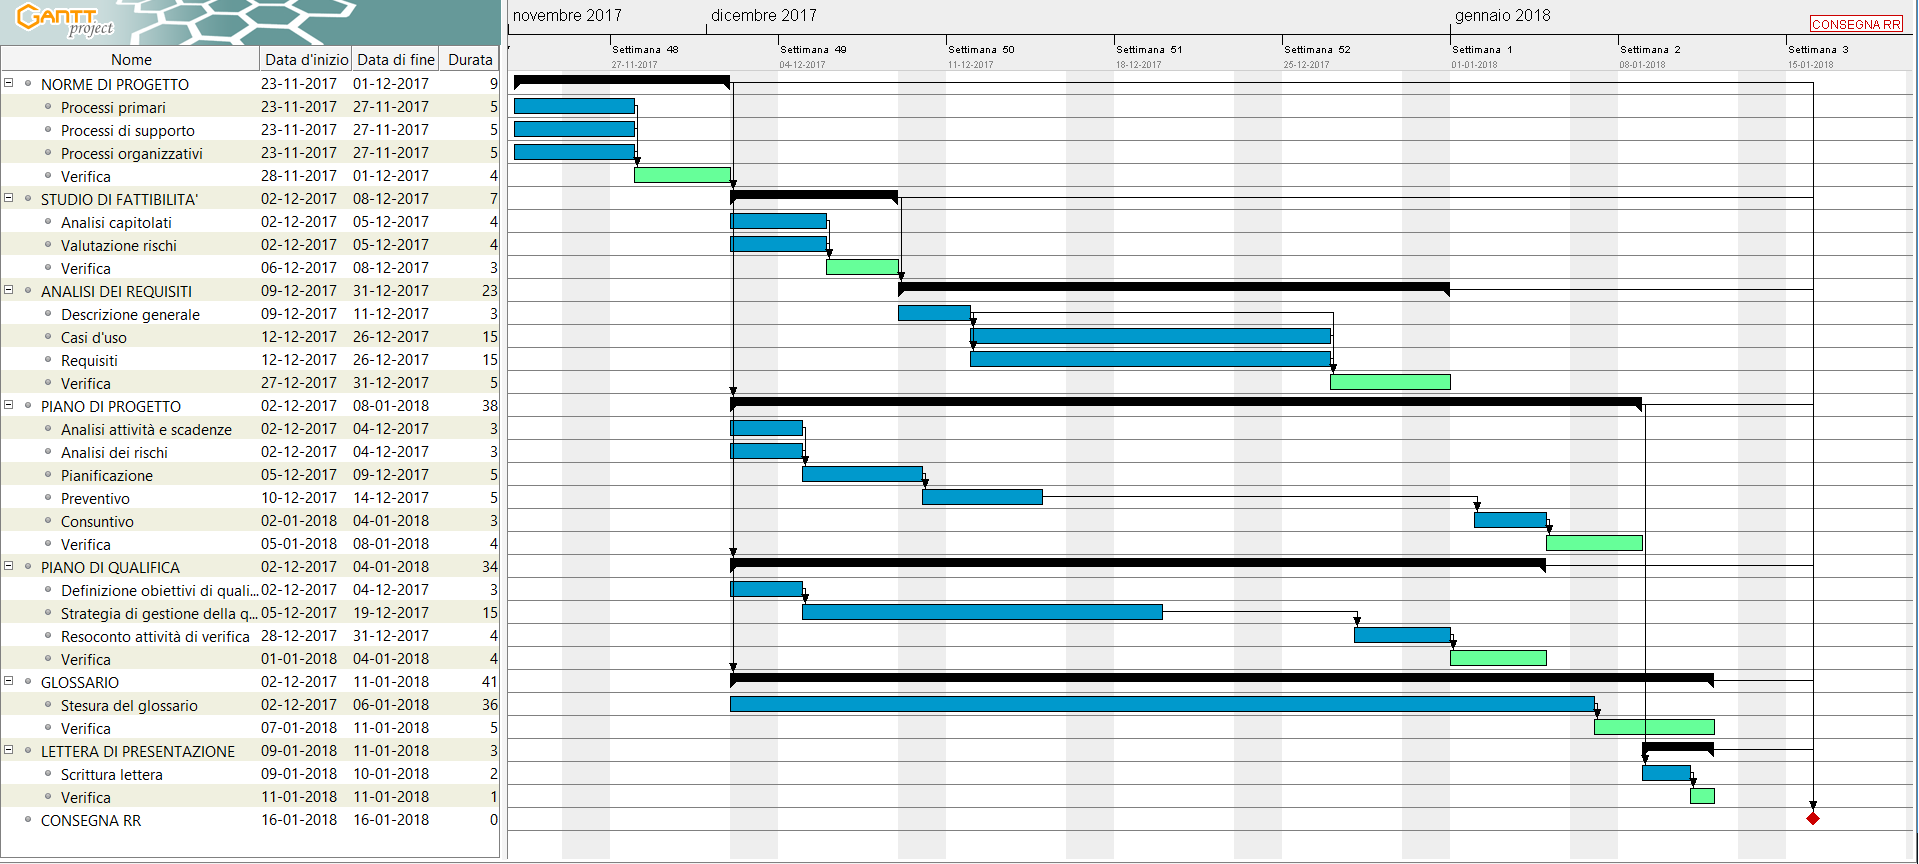
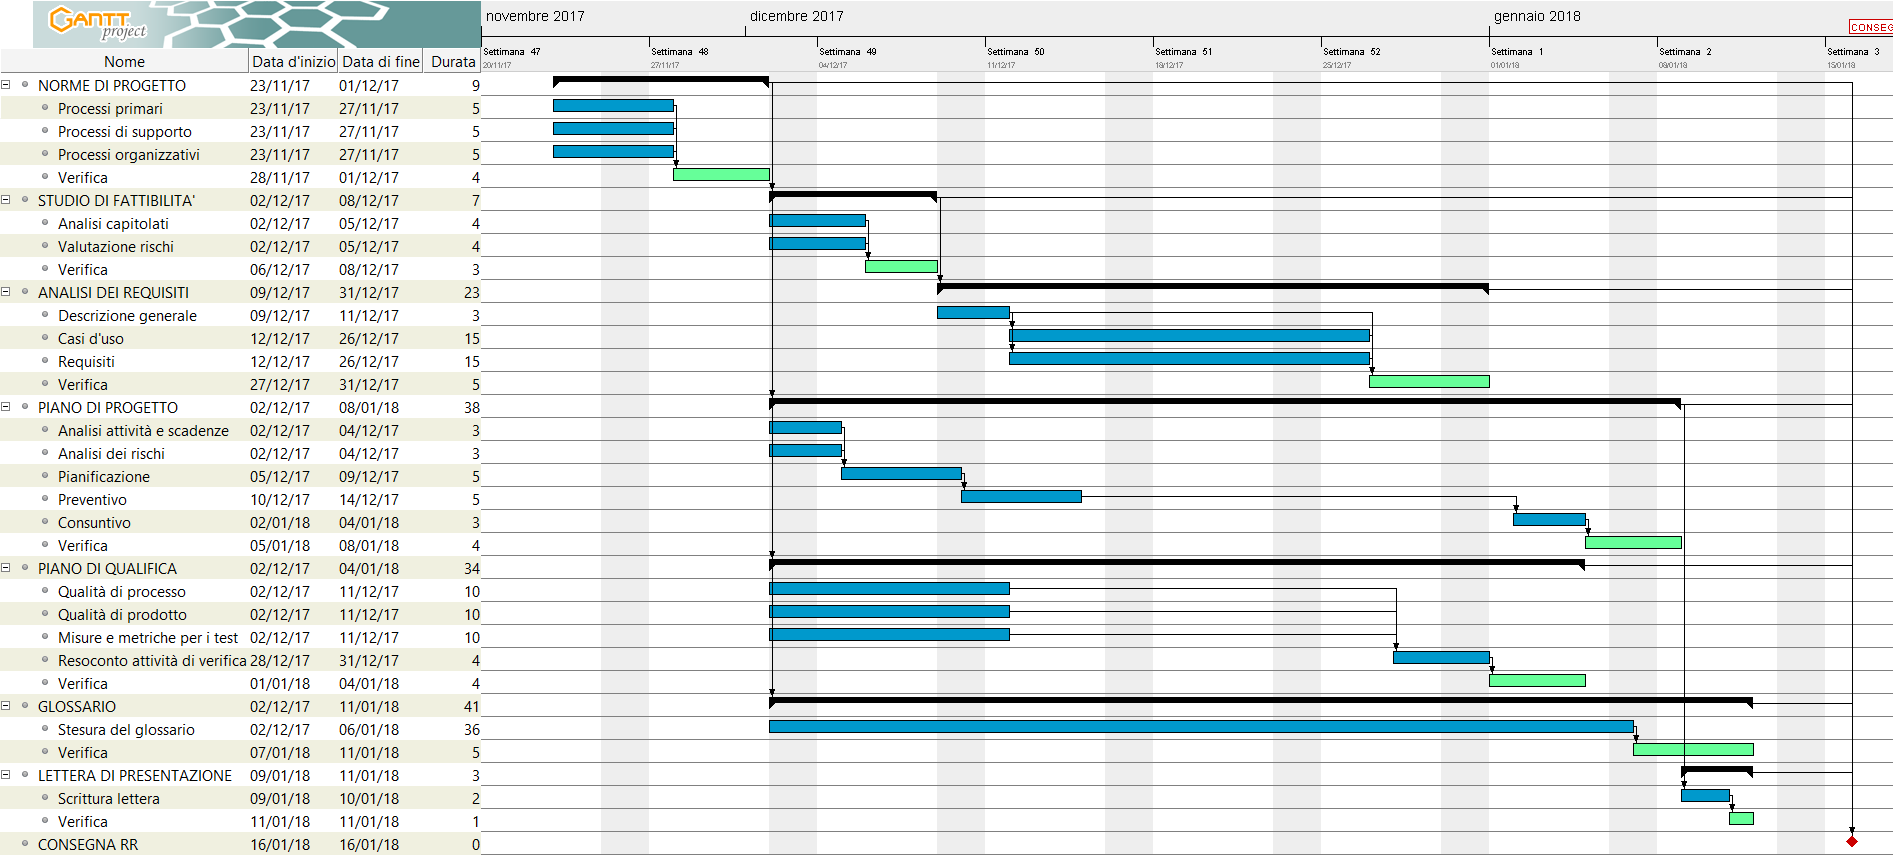
Rimosso documento 12 factor app da pianificazione pdp

Changed region(s): [[0.0, 0.0, 1.0, 1.0]]

diff --git a/Esterni/PianoDiProgetto/Pianificazione.tex b/Esterni/PianoDiProgetto/Pianificazione.tex
@@ -69,7 +69,6 @@ Il periodo di Progettazione di dettaglio e codifica inizia il 19-03-2018 e termi
 	\item \textbf{Product Baseline:} questa attività presenta la baseline architetturale del prodotto tramite i  diagrammi delle classi e di sequenza, mostrandone la coerenza con quanto mostrato durante l'attività di Technology Baseline;
 	\item \textbf{Codifica:} questa attività consiste nella scrittura del codice e nella sua \citGloss{verifica};
 	\item \textbf{Manuale Utente:} questa attività consiste nella redazione del \mut, contenente indicazioni sull’utilizzo dell'applicazione che sta venendo prodotta;
-	\item \textbf{Twelve Factor Document}: questa attività prevede uno sviluppo iniziale del documento \tfd\ che riguarda l'utilizzo dei 12 fattori\footnote{\nURI{https://12factor.net/}} all'interno dell'applicativo da sviluppare, come richiesto dalla Proponente.
 \end{itemize}
 \begin{landscape}
 		\subsection{Progettazione di dettaglio e codifica - Diagramma di Gantt}
@@ -83,7 +82,6 @@ Il periodo di \citGloss{validazione} e collaudo inizia con il 23-04-2018 e termi
 \item \textbf{Incremento e Verifica:} all’inizio del periodo vengono svolte attività di incremento e verifica su vari documenti (\ndp, \pdp, \pdq\ e \pb) seguendo le indicazioni risultanti dalla Revisione di Qualifica;
 \item \textbf{Glossario:} questa attività comprende sia il miglioramento del \g\ che l’aggiunta dei nuovi termini;
 \item \textbf{Validazione e Collaudo:} questa attività consiste nell’esecuzione di ulteriori test e miglioramenti dell'applicazione prodotto per assicurare che soddisfi tutti i vincoli qualitativi;
-\item \textbf{Twelve Factor Document:} questa attività prevede la stesura finale del documento \tfd;
 \item \textbf{Manuale Utente:} questa attività consiste nel miglioramento e completamento del \mut, contenente indicazioni sull’utilizzo dell'applicazione.
 
 \end{itemize}

diff --git a/Esterni/PianoDiProgetto/diariomodifiche.tex b/Esterni/PianoDiProgetto/diariomodifiche.tex
@@ -26,14 +26,14 @@
 		\nModifica
 		{0.0.16}
 		{\nData{06}{01}{2018}}
-		{Sistemate segnalazioni contenuti mancanti 12 factors app}
+		{Sistemata segnalazione riguardante i tempi di verifica}
 		{\Parwinder}
 		{\amme}
 		
 		\nModifica
 		{0.0.15}
 		{\nData{05}{01}{2018}}
-		{Segnalazioni aggiunte 12 factors app e tempi non impostati sufficientemente verifica}
+		{Segnalazione tempi non impostati sufficientemente verifica}
 		{\Riccardo}
 		{\vere}
 	
